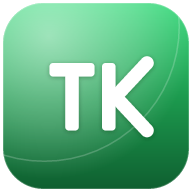
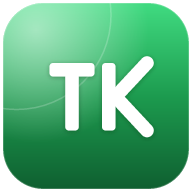
fix: โลโก้ TK — ย่อเว้ากระจกเหลือ ~1/4 มุมบนซ้าย เส้นลงแถวตัว T
ย่อวงกระจก (r252) + radial แคบลง ให้เงา+เส้นโค้งอยู่มุมบนซ้าย ~1/4
เส้นโค้งกวาดลงมาแถวตัว T · sync generator · icon.svg · Logo.tsx + PNG

diff --git a/src/components/Logo.tsx b/src/components/Logo.tsx
@@ -22,8 +22,8 @@ export function Logo({ size = 40, className }: { size?: number; className?: stri
           <stop offset="0.5" stopColor="#1c9a4e" />
           <stop offset="1" stopColor="#0f5f30" />
         </linearGradient>
-        <radialGradient id="tk-gloss" cx="130" cy="96" r="380" gradientUnits="userSpaceOnUse">
-          <stop offset="0" stopColor="#ffffff" stopOpacity="0.52" />
+        <radialGradient id="tk-gloss" cx="96" cy="80" r="300" gradientUnits="userSpaceOnUse">
+          <stop offset="0" stopColor="#ffffff" stopOpacity="0.55" />
           <stop offset="0.62" stopColor="#ffffff" stopOpacity="0.22" />
           <stop offset="1" stopColor="#ffffff" stopOpacity="0" />
         </radialGradient>
@@ -34,7 +34,7 @@ export function Logo({ size = 40, className }: { size?: number; className?: stri
       <rect x="8" y="8" width="496" height="496" rx="108" fill="url(#tk-bg)" />
       <g clipPath="url(#tk-clip)">
         <rect x="8" y="8" width="496" height="496" fill="url(#tk-gloss)" />
-        <circle cx="118" cy="70" r="360" fill="none" stroke="#ffffff" strokeOpacity="0.20" strokeWidth="4" />
+        <circle cx="44" cy="40" r="252" fill="none" stroke="#ffffff" strokeOpacity="0.20" strokeWidth="4" />
       </g>
       <rect x="9" y="9" width="494" height="494" rx="107" fill="none" stroke="#ffffff" strokeOpacity="0.28" strokeWidth="2" />
       {/* TK monogram */}
